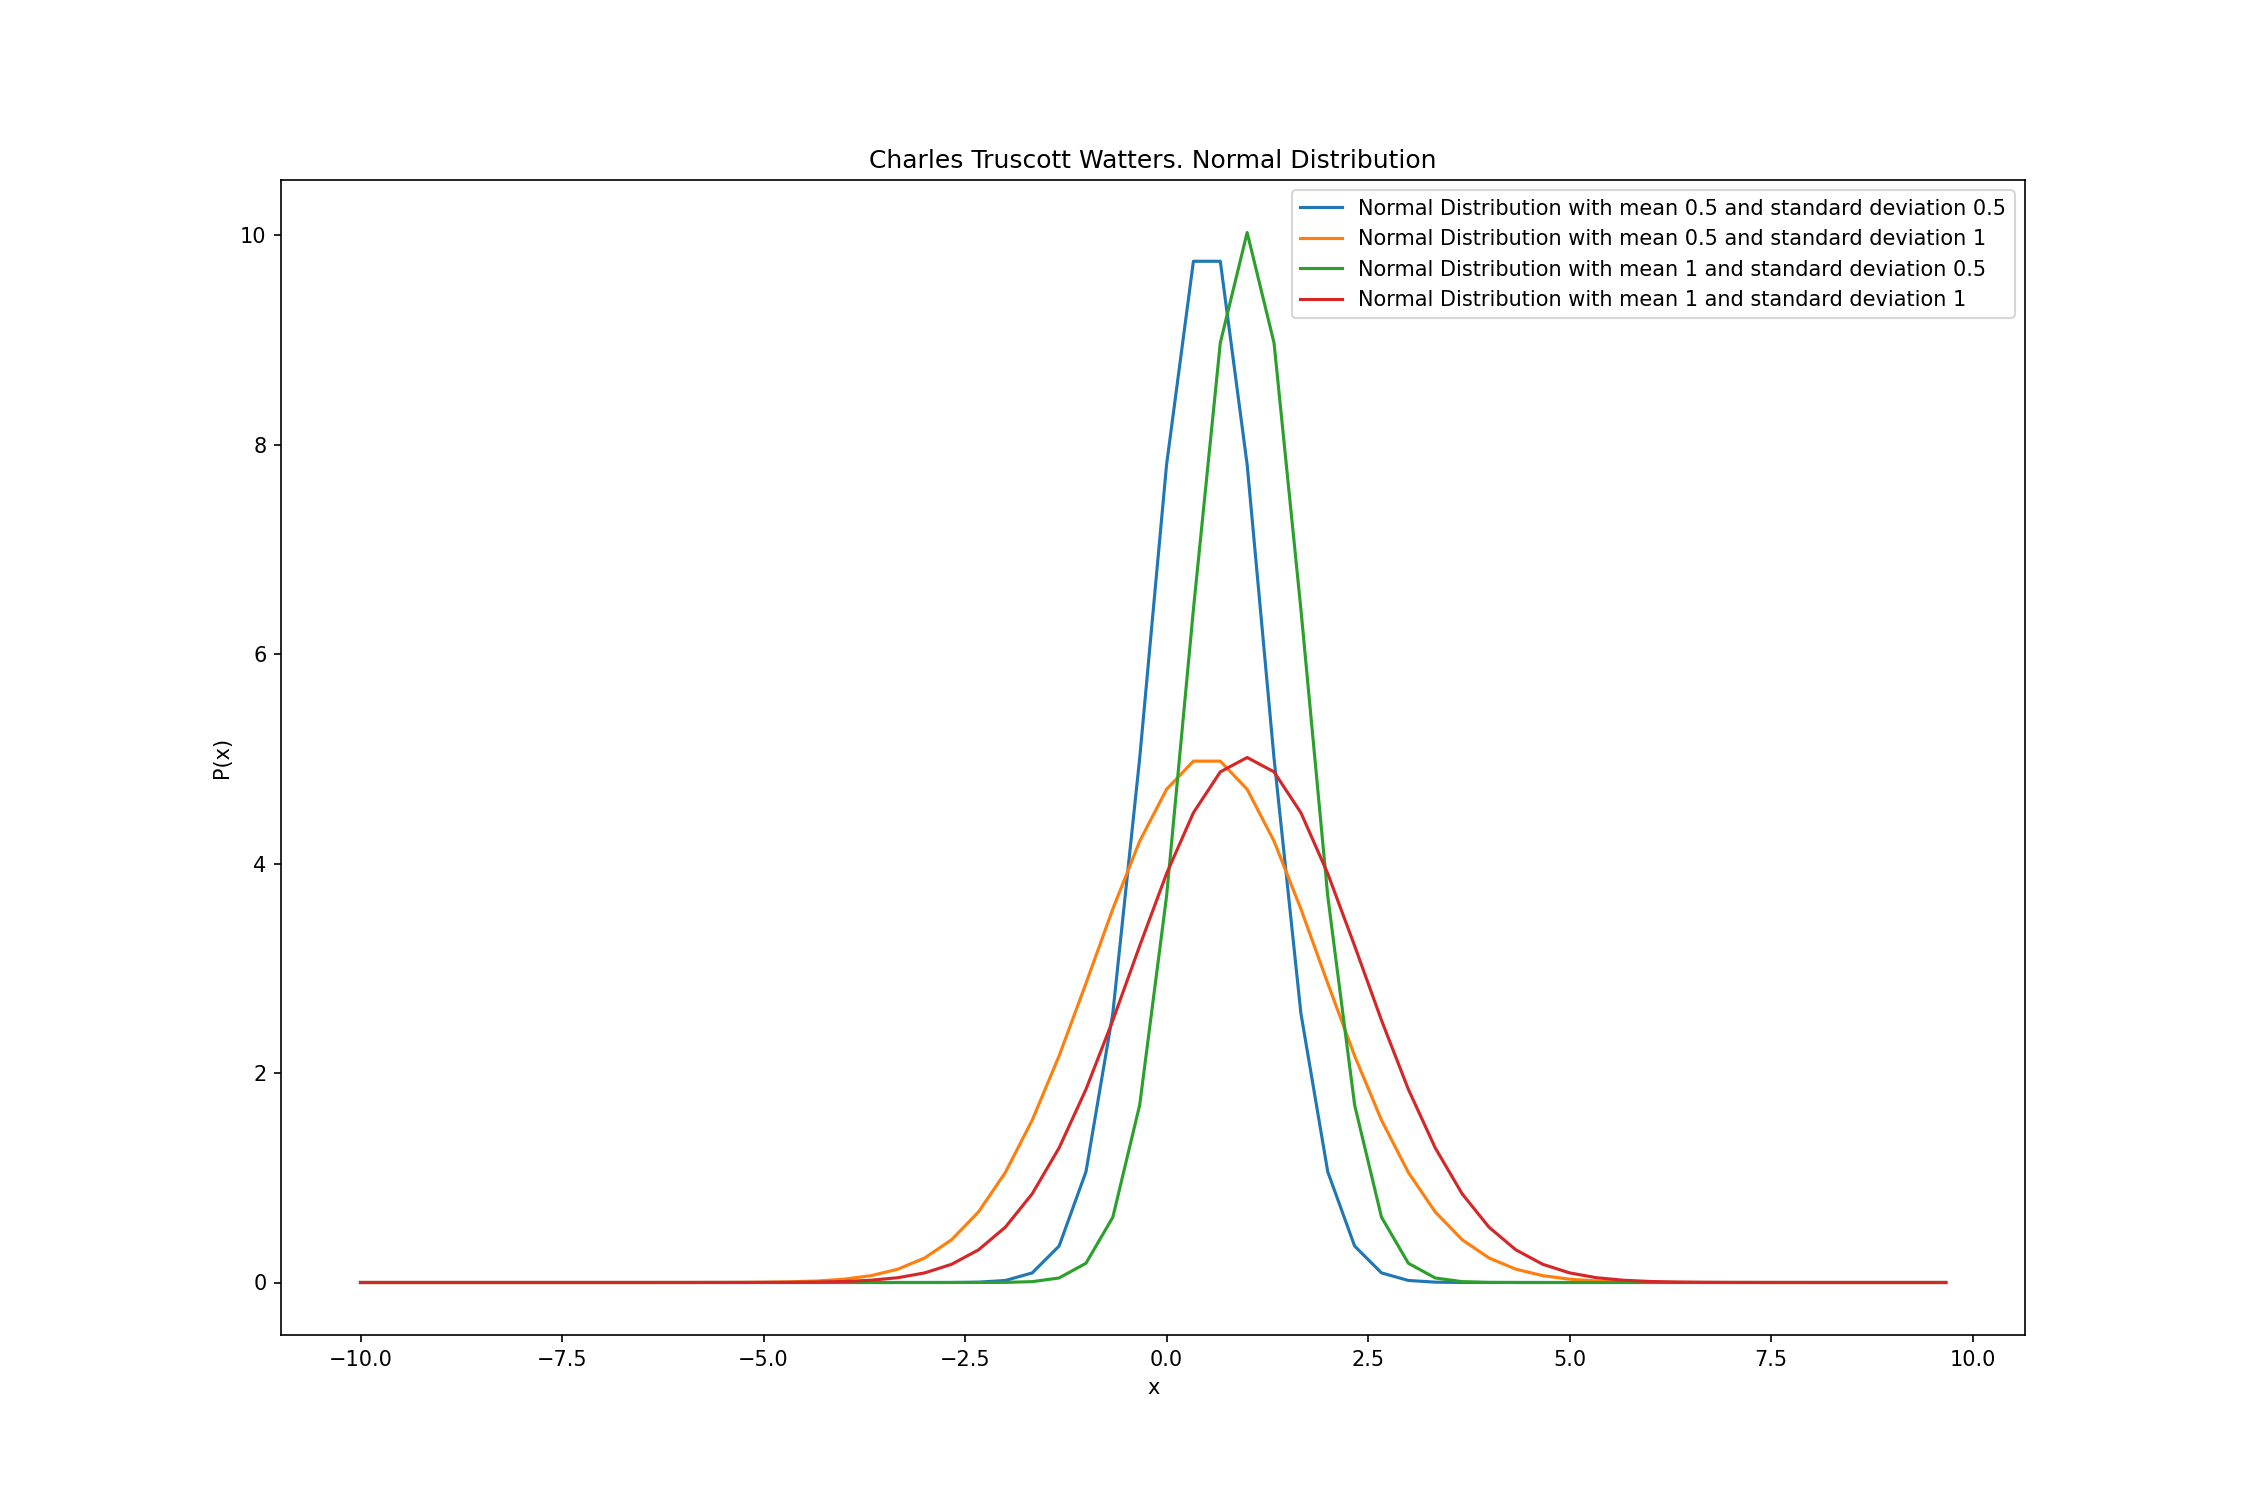
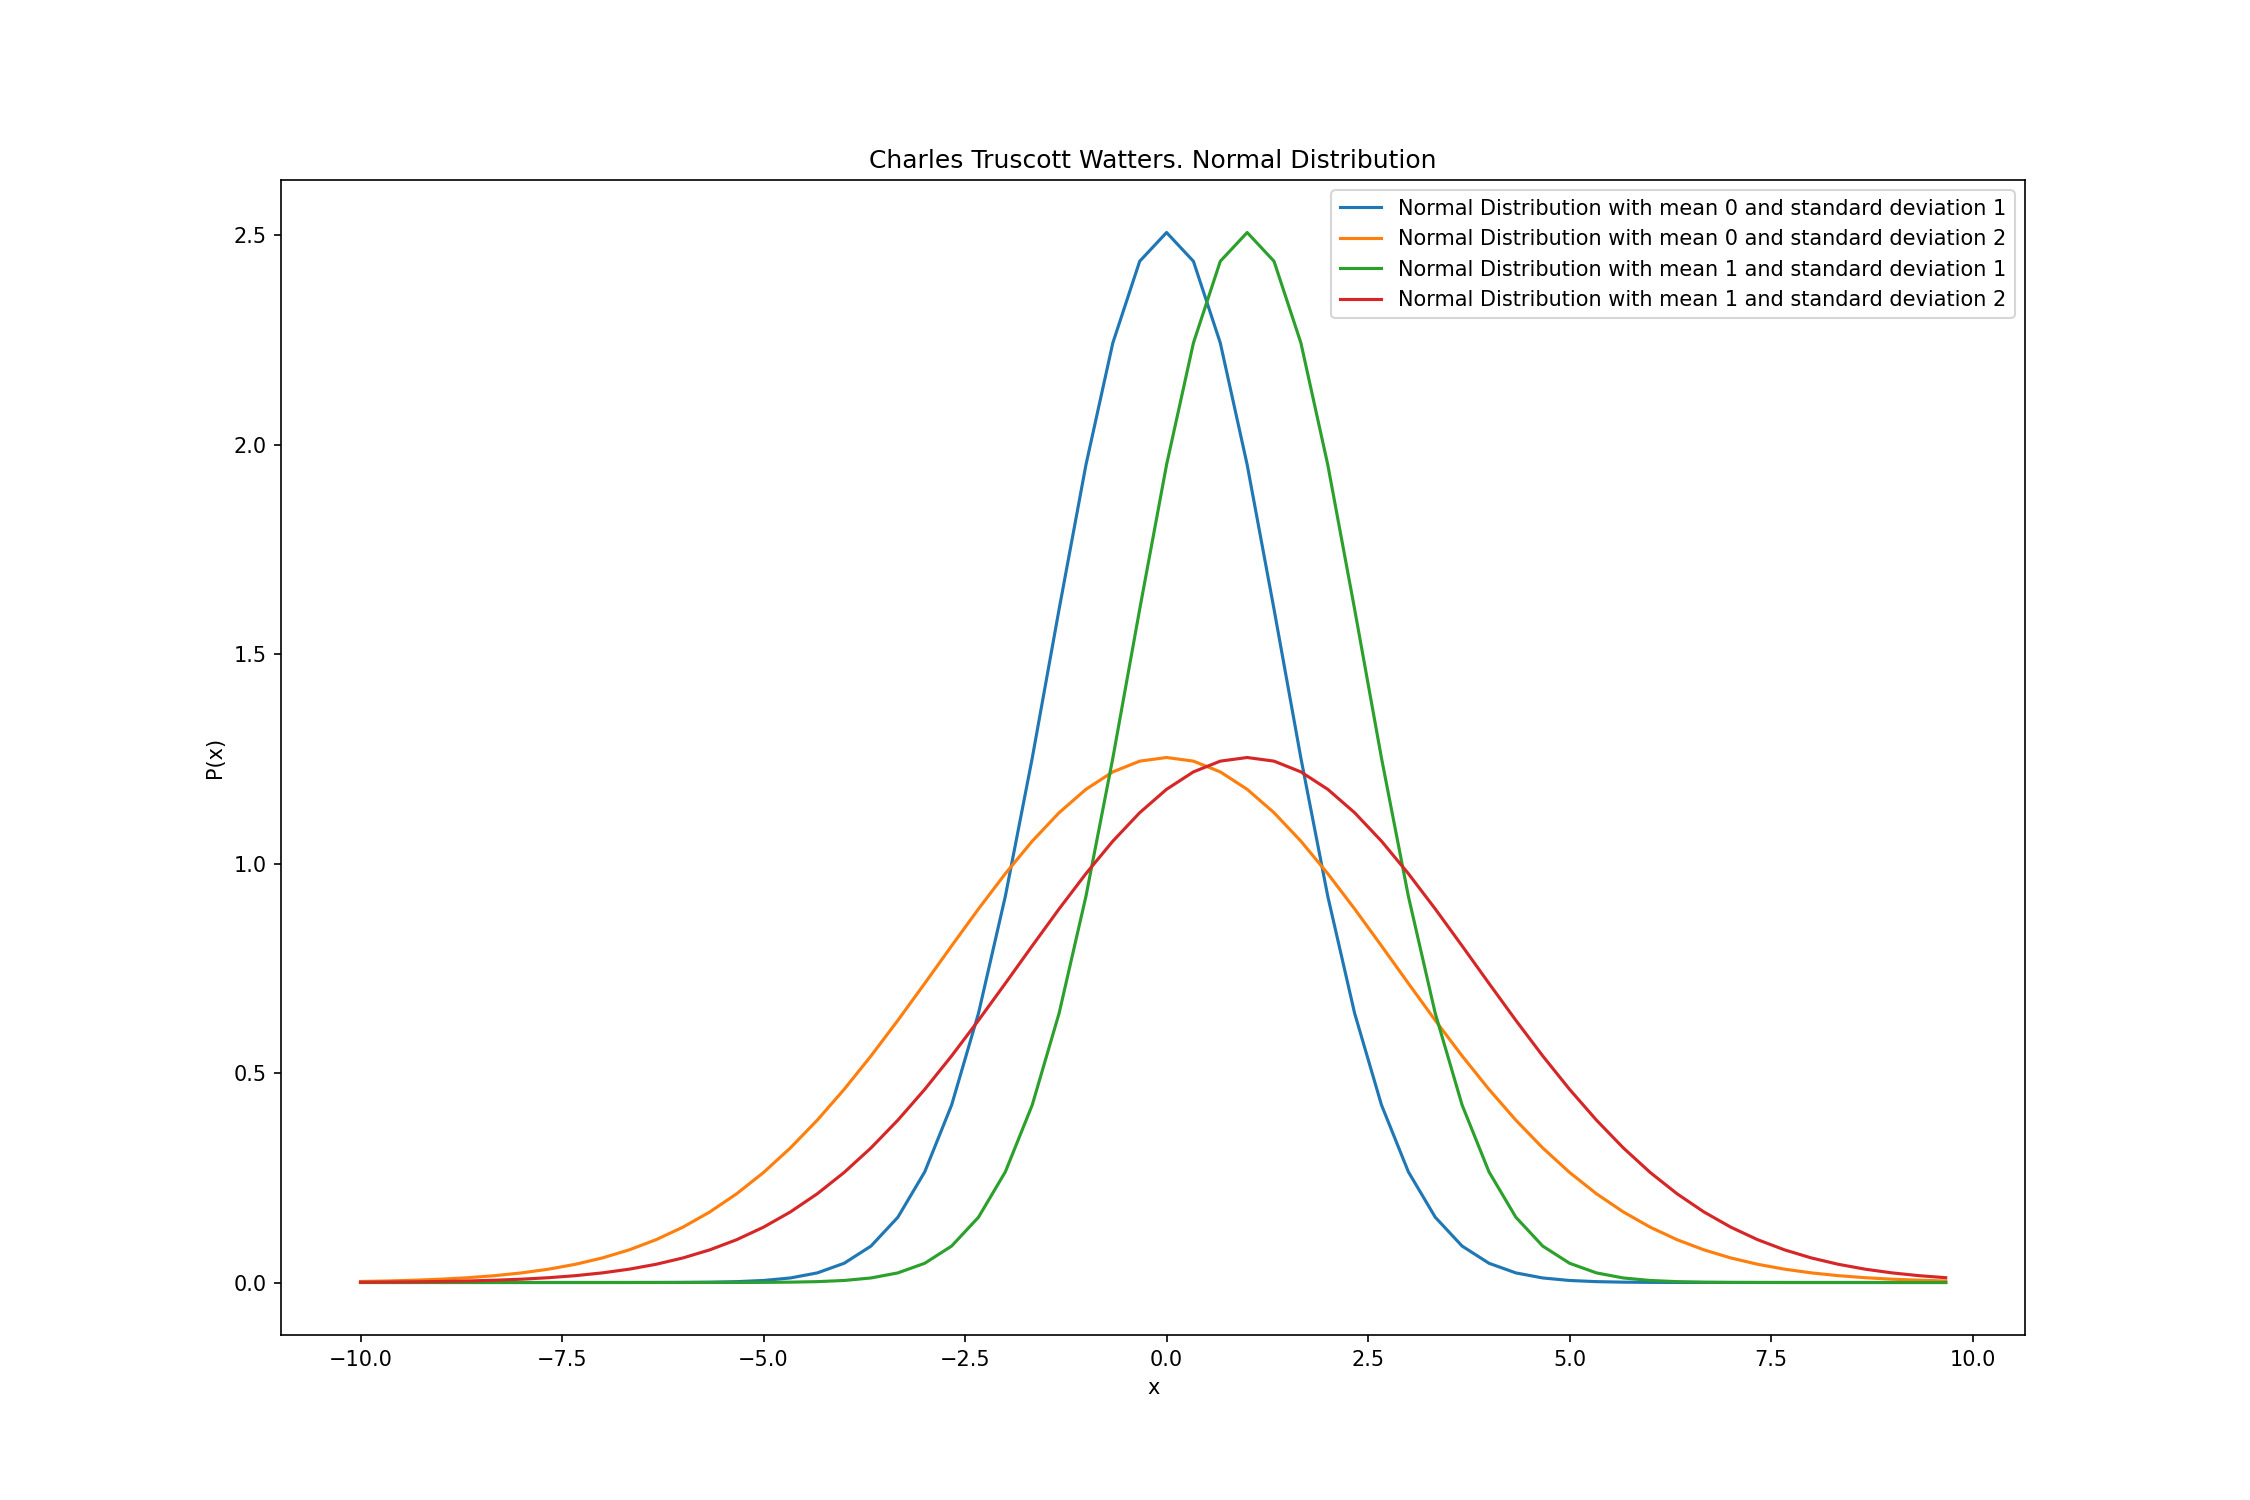
Add files via upload

diff --git a/stat.py b/stat.py
@@ -16,20 +16,20 @@ def Gaussian(mean, stddev, vals):
 	x = []
 	y = []
 	for v in vals:
-		normed = 1 / stddev * np.sqrt(2 * np.pi) * np.e ** -(((((v/2 - mean) ** 2)/(2 * stddev) **2)))
+		normed = 1 / stddev * np.sqrt(2 * np.pi) * np.e ** -(((((v - mean) ** 2)/(2 * stddev) **2)))
 		x.append(v)
 		y.append(normed)
 	return x, y
 def Charles():
-		plt.figure(0, dpi=150, figsize=[15, 10])
-		plt.title("Charles Truscott Watters. Poisson Distribution")
-		plt.xlabel("x")
-		plt.ylabel("P(x)")
-		for l in range(1, 12 + 1):
-			vals = [n for n in range(0, 12 + 1)]
-			x, y = Poisson(l/2, np.e, vals)
-			plt.plot(x, y, label="Poisson Distribution with mean of {}".format(l/2))
-		plt.savefig('poisson.png')
+#		plt.figure(0, dpi=150, figsize=[15, 10])
+#		plt.title("Charles Truscott Watters. Poisson Distribution")
+#		plt.xlabel("x")
+#		plt.ylabel("P(x)")
+#		for l in range(1, 12 + 1):
+#			vals = [n for n in range(0, 12 + 1)]
+#			x, y = Poisson(l/2, np.e, vals)
+#			plt.plot(x, y, label="Poisson Distribution with mean of {}".format(l/2))
+#		plt.savefig('poisson.png')
 		plt.figure(1,  dpi=150, figsize=[15, 10])
 #	for m, d in zip([c for c in range(1, 12)], [t for t in range(1, 12)]):
 #	for m in [0.5, 0.75, 1, 1.25, 1.50, 1.75, 2.0]:
@@ -37,11 +37,12 @@ def Charles():
 		plt.title("Charles Truscott Watters. Normal Distribution")
 		plt.xlabel("x")
 		plt.ylabel("P(x)")
-		for m in [0.5, 1]:
-			for v in [0.5, 1]:
-				x, y = Gaussian(m/2, v/2,  [x / 3 for x in range(-30, 30)])
+		for m in [0, 1]:
+			for v in [1, 2]:
+				x, y = Gaussian(m, v,  [x / 3 for x in range(-30, 30)])
 				plt.plot(x, y, label="Normal Distribution with mean {} and standard deviation {}".format(m, v))
 		plt.legend()
+#		plt.show()
 		plt.savefig('normal.png')
 Charles()
 		
